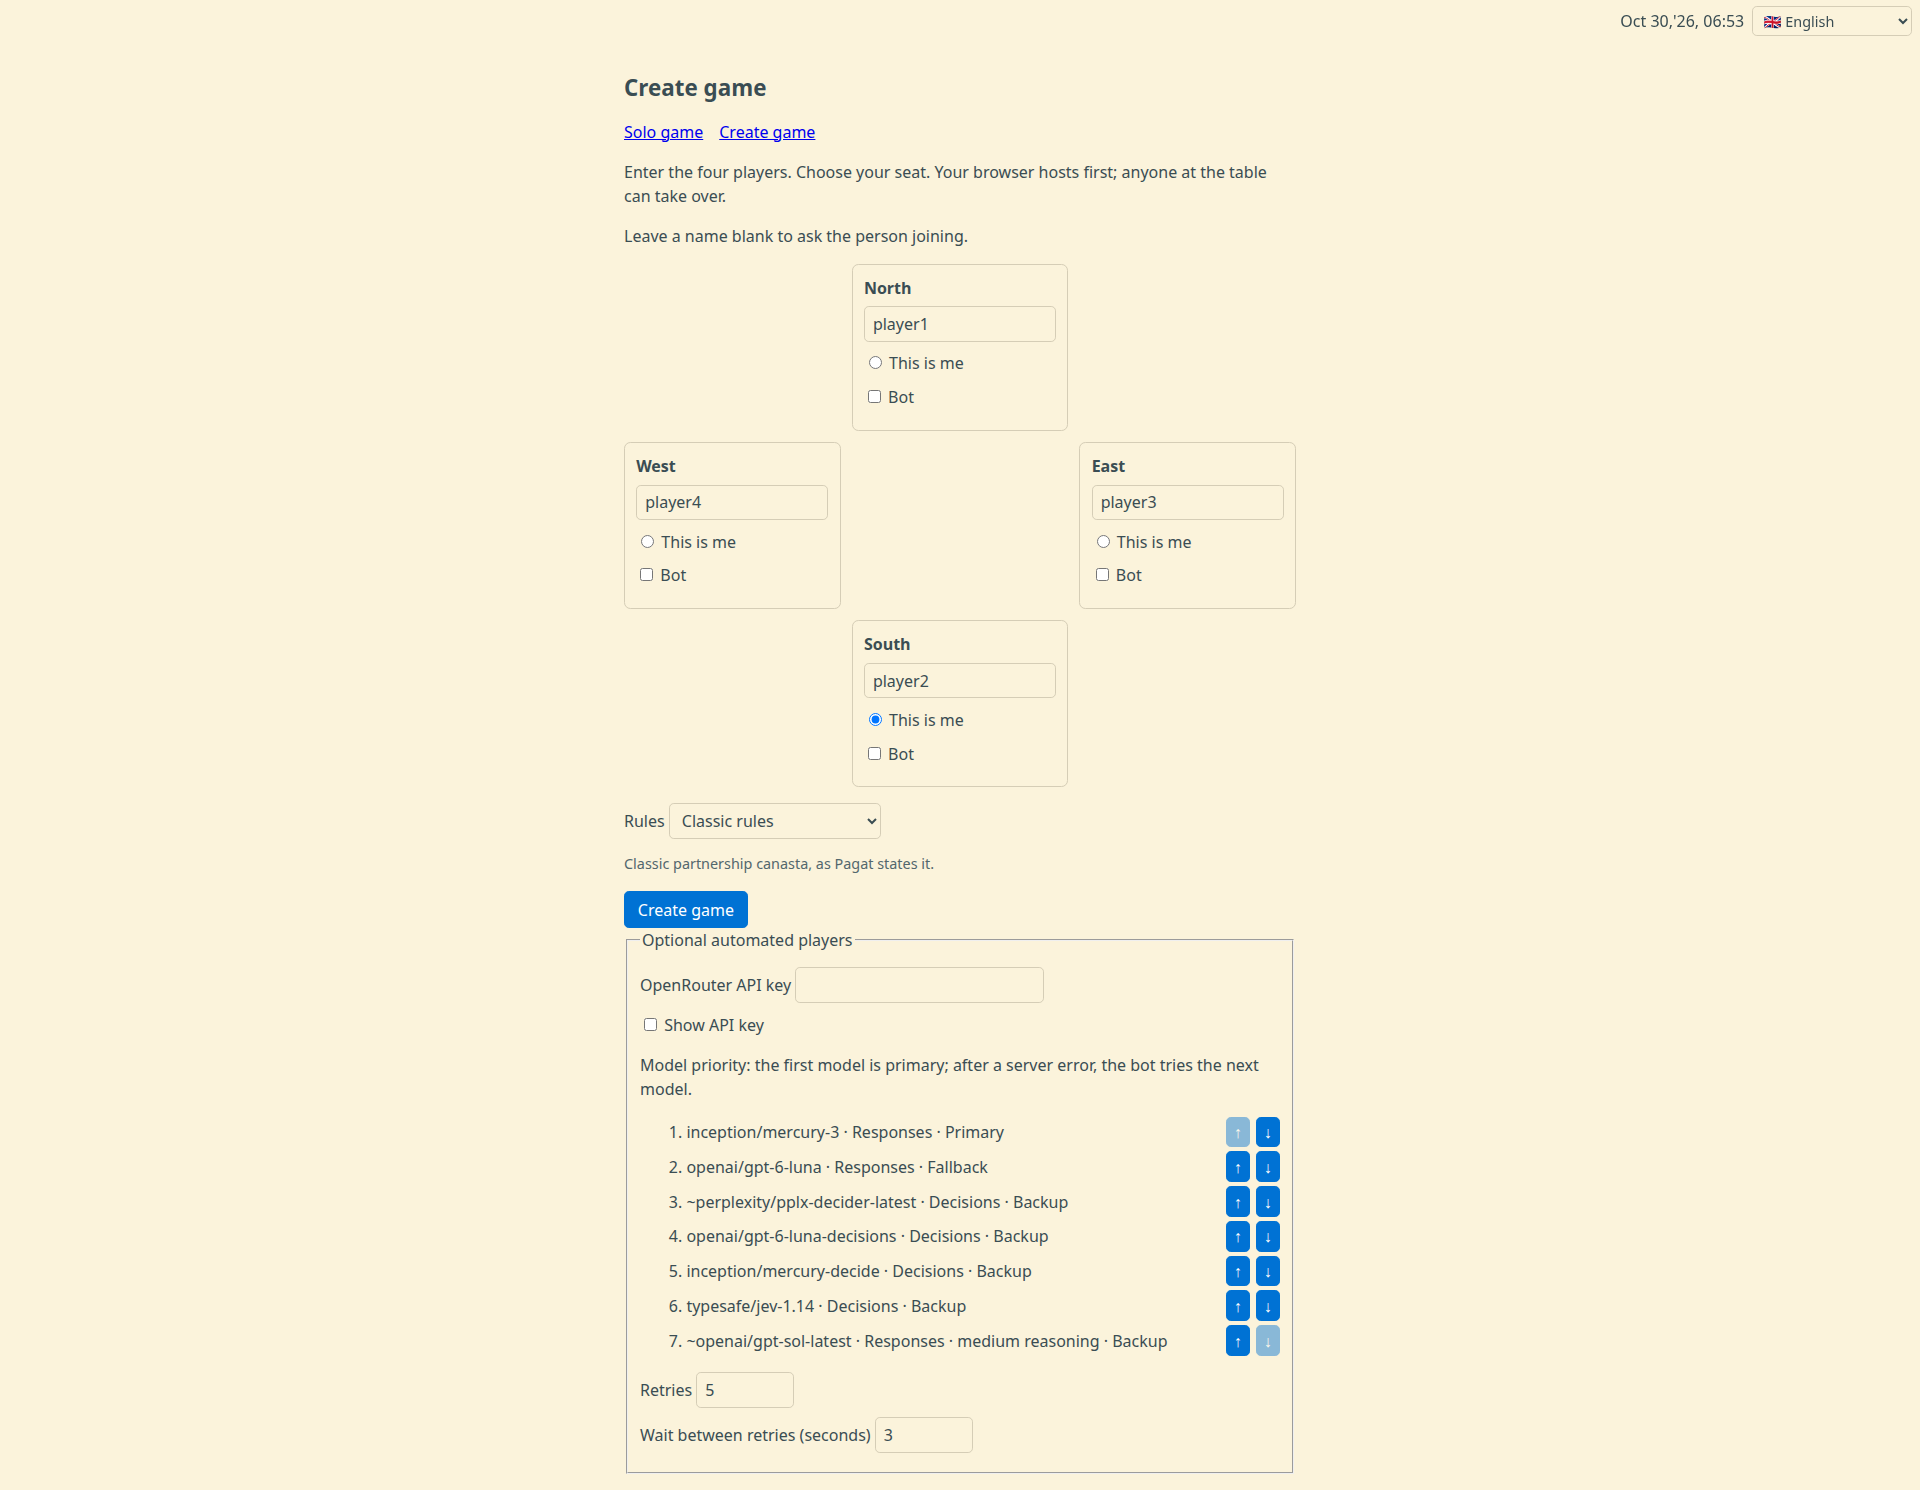
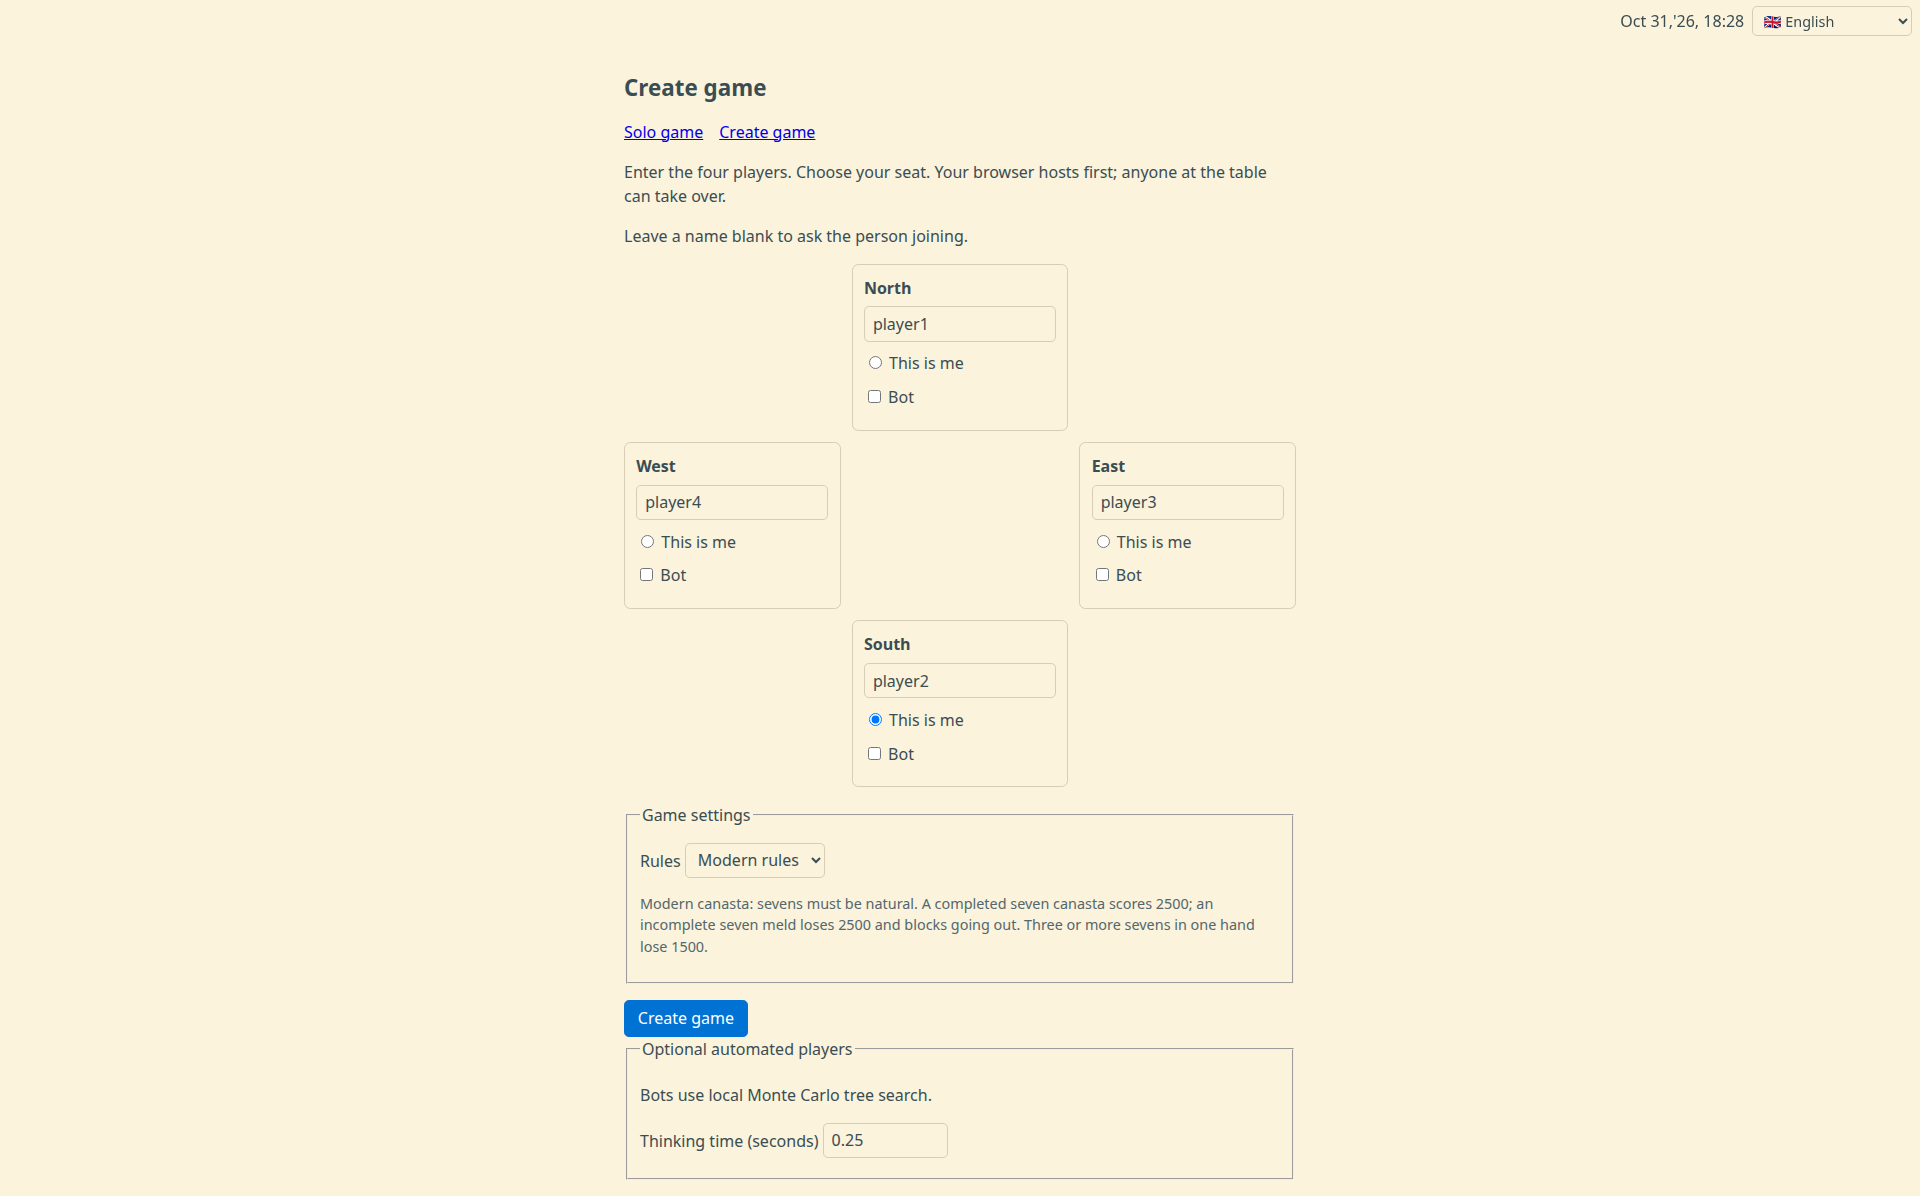
Label modern sides and refresh the guide

diff --git a/src/ui/modern-table-model.ts b/src/ui/modern-table-model.ts
@@ -167,9 +167,15 @@ export function modernTableView(input: ModernTableInput): TableView {
 			wentOut: false,
 		});
 		const tablePoints = points?.total ?? 0;
+		const label = sideLabel(index, t);
+		const owner = t(index === ownSide ? "ours" : "theirs");
+		const total = t("{item}: {points}", {
+			item: `${label} (${owner})`,
+			points: tablePoints,
+		});
 		return {
-			label: sideLabel(index, t),
-			owner: t(index === ownSide ? "ours" : "theirs"),
+			label,
+			owner,
 			score: match.scores[index],
 			mine: index === ownSide,
 			melds: team.melds.map((meld) => ({
@@ -190,11 +196,11 @@ export function modernTableView(input: ModernTableInput): TableView {
 					: t("First meld: at least {minimum} points", {
 							minimum: opening.minimum ?? 125,
 						}),
-			handPoints: t("Table points: {points}", { points: tablePoints }),
+			handPoints: total,
 			handPointsDetail: t(
 				"Table points exclude cards in hand and the going-out bonus.",
 			),
-			handSum: String(tablePoints),
+			handSum: total,
 		};
 	};
 	const scored = hand.outcome ? modernScoreHand(hand) : undefined;

diff --git a/tests/unit/modern-table-model.test.ts b/tests/unit/modern-table-model.test.ts
@@ -57,7 +57,7 @@ it("provides the modern rules hints and controls in each supported language", ()
 			"Complete the opening",
 			"Complete the pile pickup",
 			"Declare a special hand",
-			"Table points: {points}",
+			"Table points exclude cards in hand and the going-out bonus.",
 		])
 			expect(keys.has(text), `${locale}: ${text}`).toBe(true);
 	}
@@ -90,6 +90,10 @@ it("shows a modern deal, the acting player's hand, and its legal draw", () => {
 	});
 	expect(view.phase).toBe("play");
 	expect(view.target).toBe(8500);
+	expect(view.sides[0].handPoints).toContain("N-S");
+	expect(view.sides[1].handPoints).toContain("E-W");
+	expect(view.sides[0].handSum).toContain("N-S");
+	expect(view.sides[1].handSum).toContain("E-W");
 	expect(view.own.map((card) => card.id)).toEqual(
 		started.match.hand.hands[started.match.hand.turn].map((card) => card.id),
 	);

diff --git a/src/i18n-canasta.ts b/src/i18n-canasta.ts
@@ -68,17 +68,6 @@ const rows: readonly CanastaRow[] = [
 		"Deze pagina heeft nog geen kopie van de tafel",
 	],
 	[
-		"Table points: {points}",
-		"Tischpunkte: {points}",
-		"Asztali pontok: {points}",
-		"Bordpoeng: {points}",
-		"Puntos en mesa: {points}",
-		"Pontos na mesa: {points}",
-		"Points sur la table : {points}",
-		"Punti sul tavolo: {points}",
-		"Tafelpunten: {points}",
-	],
-	[
 		"Table points exclude cards in hand and the going-out bonus.",
 		"Tischpunkte enthalten weder Handkarten noch Ausgehbonus.",
 		"Az asztali pontok nem tartalmazzák a kézben lévő lapokat és a kimenetelért járó pontot.",

diff --git a/docs/opentrick-migration.md b/docs/opentrick-migration.md
@@ -75,7 +75,9 @@ Record features already present and their evidence before closing their item.
   Unit and Chrome tests cover classic and modern lobby text, board shape, seat visibility, and a 320-pixel screen.
 - [x] Adapt the shared link button text and translations (`56f1956`).
   Chrome tests cover the matching desktop and phone labels, sharing fallback, and phone controls in all supported languages.
-- [ ] Verify each applicable change with focused tests, then review the remaining reference differences and release checks.
+- [x] Verify each applicable change after the original reference with focused tests.
+  The full browser run at `8d626d6` passed 237 cases and skipped two opt-in live cases.
+  The remaining reference comparison and release review stay open below.
 
 ### Table and reliability
 
@@ -107,7 +109,8 @@ Record features already present and their evidence before closing their item.
 - [x] Compare the reference authority, connection-check, call-transport and table identifier derivation modules.
   The authority and connection-check logic matches, and the call transport uses Canasta table identifiers.
   Identifier derivation uses the Canasta namespace so that the two games do not share table and peer identities.
-- [ ] Adapt host election priority, fresh authority reports, handover and table merge behavior (`27b1c36`, `9f5fa9d`).
+- [x] Adapt host election priority, fresh authority reports, handover and table merge behavior (`27b1c36`, `9f5fa9d`).
+  The checks below cover the adopted behavior and its branch-loss limitation.
 - [x] Prefer the closest clockwise seat among equal replicas when both setup links name the same host seat.
   Beats validate the optional host seat, but a participant with the table key can still misreport its preference and affect a tie.
   The table owner controls who receives that key.
@@ -177,7 +180,8 @@ Record features already present and their evidence before closing their item.
   Three two-browser trials verified both messages after a host reload while the call remained active.
 - [x] Ask for confirmation before a host or player enables autoplay for their own seat.
   Cancellation sends no request, confirmation checks the current seat and control state, and stopping remains immediate.
-- [ ] Verify storage integrity, limits, malformed input, stale authority, split tables and recovery using simulations and browser tests.
+- [x] Verify storage integrity, limits, malformed input, stale authority, split tables and recovery using simulations and browser tests.
+  The following simulations and the full browser run at `8d626d6` cover these paths within their stated limits.
 - [x] Adapt the reference four-controller simulation for joins, chat, crashes, reloads, cleared site data and network splits.
   Two fixed recovery scenarios and 48 deterministic seeds pass with the Canasta table controller and simulated chat module.
   An additional local run passed 300 seeds; the regular test retains the reference's 48 seeds.
@@ -311,7 +315,9 @@ Record features already present and their evidence before closing their item.
 - [x] Show the host each connected player's reported build on the reload control and mark differing commits.
   Build identifiers are bounded hexadecimal text, and both the identifier and date remain untrusted peer reports.
   A two-browser test checks the tooltip, the mismatch indicator and removal on disconnect.
-- [ ] Verify hostile or silent relays, invalid input, configured endpoints, relay isolation, reconnection and privacy.
+- [x] Verify hostile or silent relays, invalid input, configured endpoints, relay isolation, reconnection and privacy.
+  The full browser run at `8d626d6` passed the discovery, diagnostics, configuration, and relay-repair cases.
+  The separately recorded extra connection observed in an earlier run remains unexplained.
   A hostile Nostr relay test verifies bounded, rate-limited warnings and malformed-frame handling.
   Three Nostr-only browser trials reject a page using a different password for the same table room.
   The trials do not authenticate individual holders of a shared table key.
@@ -726,7 +732,8 @@ Record features already present and their evidence before closing their item.
 - [x] Distribute the Trystero adapter and MQTT.js license texts with the site and link their notices from the guide.
   The notices identify these components and do not claim to inventory every transitive dependency.
 - [x] Update the player guide and screenshots for the current setup, table controls, calls, network settings and command-line bot.
-  The screenshots use a local mock service and contain no real API key or table link.
+  The setup and modern-game screenshots show the local bots and current rule selector.
+  They were captured with discovery disabled and contain no API key or table link.
 - [x] Run full regression checks, desktop and phone game flows, offline and mixed-relay recovery, call scenarios and an OpenRouter-backed game where access is available.
   The full browser run at `0a44045` and the earlier live OpenRouter run cover these flows.
   The two historical recovery observations below remain unresolved despite subsequent passing trials.
